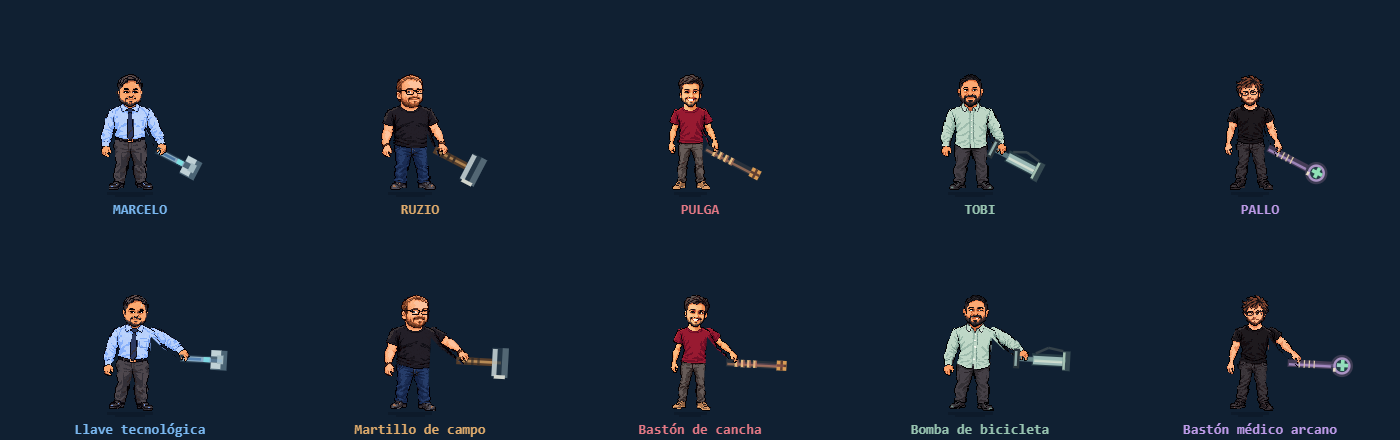
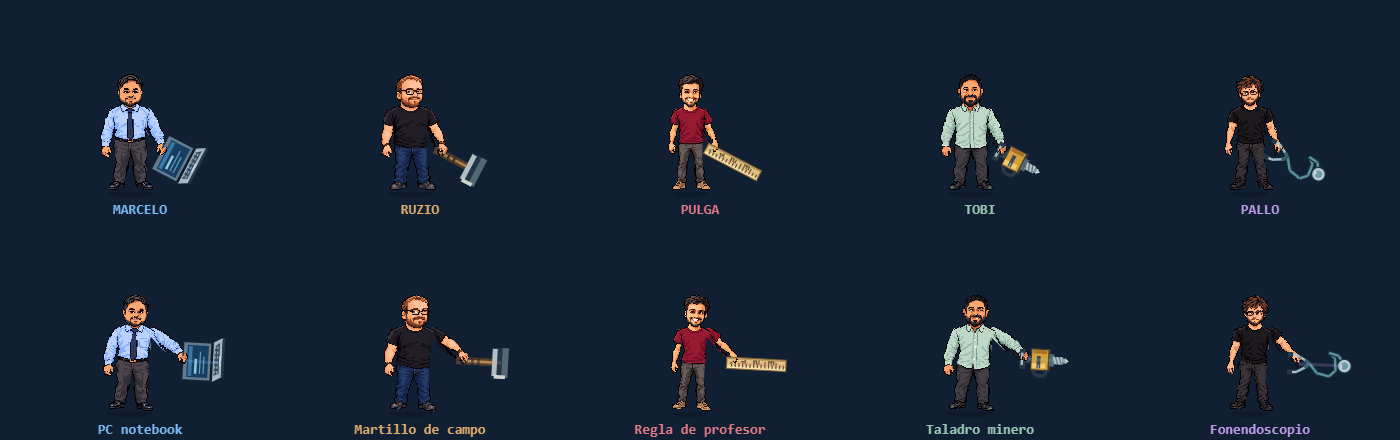
Customize melee weapons as notebook ruler mining drill and stethoscope

diff --git a/src/melee.js b/src/melee.js
@@ -2,14 +2,14 @@
  * de la herramienta y un solo impacto por objetivo en cada ejecución. */
 (() => {
   'use strict';
-  const M=window.Magdaleno,g=M.ctx,{F,line,circle}=M.draw;
+  const M=window.Magdaleno,g=M.ctx,{F,line,circle,poly}=M.draw;
   const duration=.30,rest={front:[.12,.20],psi:.77};
   M.weapons={
-    marcelo:{name:'Llave tecnológica',kind:'wrench',length:29,radius:6,color:'#7ab8f0',swing:.78},
+    marcelo:{name:'PC notebook',kind:'notebook',length:29,radius:13,color:'#7ab8f0',swing:.72},
     ruzio:{name:'Martillo de campo',kind:'field-hammer',length:30,radius:8,color:'#dfab6c',swing:.72},
-    pulga:{name:'Bastón de cancha',kind:'court-stick',length:38,radius:5,color:'#e57985',swing:.67},
-    tobi:{name:'Bomba de bicicleta',kind:'bike-pump',length:33,radius:7,color:'#97c3b0',swing:.77},
-    pallo:{name:'Bastón médico arcano',kind:'medical-staff',length:37,radius:7,color:'#be9be8',swing:.65}
+    pulga:{name:'Regla de profesor',kind:'teacher-ruler',length:38,radius:5,color:'#e57985',swing:.67},
+    tobi:{name:'Taladro minero',kind:'mining-drill',length:33,radius:8,color:'#97c3b0',swing:.77},
+    pallo:{name:'Fonendoscopio',kind:'stethoscope',length:37,radius:6,color:'#be9be8',swing:.65}
   };
   for(const [id,weapon]of Object.entries(M.weapons)){M.heroes[id].weapon=weapon.name;M.heroes[id].description=weapon.name+' para el ataque básico. '+M.heroes[id].description;}
   M.melee={duration,cooldown:.32,damage:10,activeStart:.07,activeEnd:.23};
@@ -29,7 +29,7 @@
     if(attacking){let i=1;while(i<keys.length-1&&t>keys[i][0])i++;const a=keys[i-1],b=keys[i],u=ease((t-a[0])/(b[0]-a[0]));front=[M.lerp(a[1],b[1],u),M.lerp(a[2],b[2],u)];psi=M.lerp(a[3],b[3],u);lean=M.lerp(a[4],b[4],u);}
     const phase=!attacking?'reposo':t<.07?'preparación':t<.18?'acción':'recuperación';
     return{id,variant:'melee',elapsed:attacking?t:-1,duration,phase,front,back:null,crouch:0,lean,jump:0,lift:0,scale:1,
-      tool:{kind:'melee',weapon:id,psi,show:1},attacking};
+      tool:{kind:'melee',weapon:id,psi,show:1,motion:attacking?t:0},attacking};
   };
 
   // La física reproduce las mismas transformaciones de hombro, codo y mano
@@ -74,27 +74,48 @@
     const w=M.weapons[tool.weapon],length=w.length;
     g.save();g.rotate(-tool.psi);g.scale(k,k);
     // Mango cerrado bajo la palma, con las mismas coordenadas que usa el golpe.
-    if(w.kind==='wrench'){
-      F(-3,-5,6,29,'#253b4e');F(-2,-3,4,24,'#8babc1');F(-1,0,2,12,'#4c76a2');
-      F(-8,20,16,13,'#4b6475');F(-7,20,5,8,'#c0d1d6');F(3,20,5,8,'#c0d1d6');F(-3,25,7,5,'#a4bbc3');
-      F(-2,14,4,5,'#7ddfe1');
+    if(w.kind==='notebook'){
+      // Pantalla, bisagra y teclado: se sostiene del borde superior.
+      F(-16,-2,32,25,'#162332');F(-15,-1,30,23,'#617b91');
+      F(-13,2,26,17,'#173d61');F(-12,3,24,3,'#3977a5');
+      F(-10,8,12,2,'#8ccee0');F(-10,12,18,1,'#5f9cba');F(-10,15,14,1,'#5f9cba');F(-1,-1,2,1,'#afc3cb');
+      line(-15,22,15,22,'#0c1722',2);
+      poly([[-16,23],[16,23],[20,30],[-12,30]],'#a4b7c2');
+      poly([[-11,24],[13,24],[16,28],[-9,28]],'#354b60');
+      for(let y=24;y<=27;y+=2)for(let x=-9;x<=11;x+=4)F(x,y,2,1,'#91a8b8');
+      F(-3,28,8,1,'#e0e5dc');line(-12,31,20,31,'#26394c',2);
     }else if(w.kind==='field-hammer'){
       F(-3,-6,6,32,'#563d2a');F(-1,-4,2,28,'#ac8150');
       for(let y=1;y<15;y+=5)F(-3,y,6,2,'#392f29');
       F(-12,23,24,13,'#233545');F(-11,23,22,4,'#b1bec2');F(-12,31,24,5,'#536774');F(-13,25,3,9,'#d1d5cd');
-    }else if(w.kind==='court-stick'){
-      F(-3,-9,6,49,'#27303b');F(-2,-8,2,46,'#8b6553');
-      for(let y=-2;y<16;y+=5){F(-3,y,6,2,'#e7bd80');F(-3,y+2,6,1,'#9e6552');}
-      F(-4,32,8,8,'#d99b54');F(-4,35,8,2,'#5f3e32');F(-1,32,2,8,'#5f3e32');
-    }else if(w.kind==='bike-pump'){
-      F(-5,5,10,27,'#263c45');F(-4,6,7,25,'#9ab9b6');F(-2,7,2,23,'#d2ded1');
-      F(-2,-8,4,14,'#5c7880');F(-8,-10,16,5,'#29343b');F(-6,-9,12,2,'#8eaaa7');
-      F(-8,30,16,6,'#354951');F(-7,30,14,2,'#a5c2b3');line(5,8,10,18,'#344149',2);line(10,18,8,30,'#344149',2);
-    }else{
-      F(-3,-9,6,45,'#453c56');F(-2,-8,2,43,'#9c83b7');
-      for(let y=0;y<13;y+=4)F(-3,y,6,1,'#ddcbaa');
-      circle(0,35,9,'#3c3b52');circle(0,35,7,'#ab93c4');circle(0,35,5,'#243e46');
-      F(-1,31,3,9,'#8fe1b7');F(-4,34,9,3,'#8fe1b7');F(-5,28,3,2,'#e9ddc8');
+    }else if(w.kind==='teacher-ruler'){
+      F(-5,-9,10,49,'#85673c');F(-4,-8,8,47,'#e1c583');F(-4,-8,2,47,'#fae5ae');F(3,-8,1,47,'#bc9759');
+      for(let y=-5;y<=37;y+=3)F(-3,y,y%9===4?5:3,1,'#665137');
+      // Dígitos de la escala dibujados con píxeles, sin tipografía suavizada.
+      F(1,3,1,4,'#665137');F(0,6,3,1,'#665137');
+      F(0,13,3,1,'#665137');F(2,14,1,1,'#665137');F(0,15,3,1,'#665137');F(0,16,1,1,'#665137');F(0,17,3,1,'#665137');
+      F(0,25,3,1,'#665137');F(2,26,1,3,'#665137');F(0,27,3,1,'#665137');F(0,29,3,1,'#665137');
+      circle(0,-5,1,'#9b7a48');
+    }else if(w.kind==='mining-drill'){
+      // Taladro neumático amarillo, empuñadura lateral y broca de acero.
+      F(-8,-5,16,5,'#253845');F(-5,-4,10,2,'#a4b6bc');F(-3,0,6,6,'#354754');
+      F(-9,4,18,16,'#443d2e');F(-8,5,16,13,'#d5a039');F(-7,5,4,11,'#f5ca69');F(5,6,3,11,'#a6712c');
+      F(-7,9,10,3,'#3d4850');F(-7,10,3,1,'#a7b1ab');
+      line(-9,6,-13,9,'#263944',3);line(-13,9,-13,16,'#263944',3);line(-13,16,-8,17,'#263944',3);
+      F(-5,19,10,4,'#516873');F(-3,22,6,8,'#b3c2c6');F(-2,30,4,3,'#8a9ea7');
+      const shift=tool.motion>0?Math.floor(tool.motion*60)%2:0;
+      for(let y=23+shift;y<31;y+=3)line(-3,y,3,y-2,'#526876',1);
+      poly([[-2,32],[2,32],[0,35]],'#c9d3d2');
+    }else if(w.kind==='stethoscope'){
+      // Olivas y arcos metálicos, tubo flexible y diafragma de auscultación.
+      line(-7,-7,-7,-2,'#b5c8ce',2);line(7,-7,7,-2,'#b5c8ce',2);
+      line(-7,-2,-3,5,'#9cbbc2',2);line(7,-2,3,5,'#9cbbc2',2);
+      F(-9,-9,4,4,'#243944');F(5,-9,4,4,'#243944');
+      line(-3,5,0,9,'#355f6b',3);line(3,5,0,9,'#355f6b',3);
+      const flex=tool.motion>0?Math.sin(tool.motion/duration*Math.PI*2)*4:0;
+      const tube=[[0,9],[-8+flex,15],[-10+flex,25],[-5+flex,30],[5+flex,29],[9+flex,24],[8,32],[0,37]];
+      for(let i=1;i<tube.length;i++){line(...tube[i-1],...tube[i],'#142d39',4);line(...tube[i-1],...tube[i],'#59909b',2);}
+      circle(0,37,6,'#1d3442');circle(0,37,5,'#b5cbd1');circle(0,37,3,'#6e99a7');F(-2,34,3,1,'#e1e9df');
     }
     mark('grip',0,0);mark('tip',0,length);mark('head',0,length);
     g.restore();

diff --git a/animaciones.html b/animaciones.html
@@ -10,14 +10,14 @@
   <style>
     body{display:block}.preview-shell{width:min(1280px,96vw);margin:32px auto 50px}.preview-head{display:flex;align-items:center;justify-content:space-between;gap:20px;margin-bottom:28px}.preview-head h1{font-size:clamp(26px,4vw,46px);margin-top:9px}.preview-head p{color:var(--muted);max-width:720px}.preview-head a{color:var(--amber);white-space:nowrap}.preview-controls{display:flex;align-items:center;gap:10px;flex-wrap:wrap;padding:17px;border:1px solid var(--line);background:var(--panel);margin-bottom:24px}.preview-controls button{border:1px solid #3b5067;background:#192d42;color:#c9d4df;padding:10px 15px;border-radius:3px}.preview-controls button[aria-pressed=true]{color:#171a1e;border-color:var(--amber);background:var(--amber)}.preview-controls label{display:flex;align-items:center;gap:8px;color:var(--muted);font-size:12px;margin-left:auto}.preview-controls select{background:#17283c;color:#f1dbb5;border:1px solid #496178;border-radius:3px;padding:8px}.preview-grid{display:grid;grid-template-columns:repeat(5,1fr);gap:14px}.preview-person{min-width:0;border:1px solid var(--line);background:linear-gradient(#172b40,#0d1b2b);padding:12px 8px 16px;text-align:center;border-radius:4px}.preview-person canvas{display:block;width:100%;height:auto;image-rendering:pixelated}.preview-person h2{margin:0;font-size:15px;letter-spacing:1px}.preview-person p{margin:6px 0 0;color:var(--muted);font-size:11px}.preview-note{color:var(--muted);line-height:1.7;margin-top:24px;max-width:850px;font-size:13px}#preview-status{color:var(--teal);font-size:12px;margin:14px 0}#game{display:none}.preview-pause{margin-left:0!important}@media(max-width:850px){.preview-grid{grid-template-columns:repeat(3,1fr)}.preview-head{align-items:flex-start}.preview-controls label{margin-left:0}}@media(max-width:520px){.preview-grid{grid-template-columns:repeat(2,1fr)}.preview-head{display:block}.preview-controls button{padding:8px 11px}}
   </style>
-  <script defer src="src/data.js?v=0.6.0"></script>
-  <script defer src="assets/bounds.js?v=0.6.0"></script>
-  <script defer src="src/core.js?v=0.6.0"></script>
-  <script defer src="src/render.js?v=0.6.0"></script>
-  <script defer src="src/visuals.js?v=0.6.0"></script>
-  <script defer src="src/powers.js?v=0.6.0"></script>
-  <script defer src="src/melee.js?v=0.6.0"></script>
-  <script defer src="src/animation-preview.js?v=0.6.0"></script>
+  <script defer src="src/data.js?v=0.6.1"></script>
+  <script defer src="assets/bounds.js?v=0.6.1"></script>
+  <script defer src="src/core.js?v=0.6.1"></script>
+  <script defer src="src/render.js?v=0.6.1"></script>
+  <script defer src="src/visuals.js?v=0.6.1"></script>
+  <script defer src="src/powers.js?v=0.6.1"></script>
+  <script defer src="src/melee.js?v=0.6.1"></script>
+  <script defer src="src/animation-preview.js?v=0.6.1"></script>
 </head>
 <body>
 <main class="preview-shell">

diff --git a/index.html b/index.html
@@ -12,17 +12,17 @@
   <link rel="apple-touch-icon" href="assets/icon-192.png">
   <meta name="apple-mobile-web-app-capable" content="yes">
   <meta name="apple-mobile-web-app-status-bar-style" content="black-translucent">
-  <script defer src="src/data.js?v=0.6.0"></script>
-  <script defer src="assets/bounds.js?v=0.6.0"></script>
-  <script defer src="src/core.js?v=0.6.0"></script>
-  <script defer src="src/render.js?v=0.6.0"></script>
-  <script defer src="src/visuals.js?v=0.6.0"></script>
-  <script defer src="src/powers.js?v=0.6.0"></script>
-  <script defer src="src/melee.js?v=0.6.0"></script>
-  <script defer src="src/game.js?v=0.6.0"></script>
-  <script defer src="src/chapter.js?v=0.6.0"></script>
-  <script defer src="src/soundtrack.js?v=0.6.0"></script>
-  <script defer src="src/mobile.js?v=0.6.0"></script>
+  <script defer src="src/data.js?v=0.6.1"></script>
+  <script defer src="assets/bounds.js?v=0.6.1"></script>
+  <script defer src="src/core.js?v=0.6.1"></script>
+  <script defer src="src/render.js?v=0.6.1"></script>
+  <script defer src="src/visuals.js?v=0.6.1"></script>
+  <script defer src="src/powers.js?v=0.6.1"></script>
+  <script defer src="src/melee.js?v=0.6.1"></script>
+  <script defer src="src/game.js?v=0.6.1"></script>
+  <script defer src="src/chapter.js?v=0.6.1"></script>
+  <script defer src="src/soundtrack.js?v=0.6.1"></script>
+  <script defer src="src/mobile.js?v=0.6.1"></script>
 </head>
 <body>
 <main class="shell">

diff --git a/sw.js b/sw.js
@@ -1,5 +1,5 @@
 /* Solo recursos del juego. Los vídeos del tráiler no se precargan. */
-const CACHE='magdaleno-mobile-0.6.0';
+const CACHE='magdaleno-mobile-0.6.1';
 const FILES=['./','./index.html','./styles.css','./mobile.css','./manifest.webmanifest','./src/data.js','./assets/bounds.js','./src/core.js','./src/render.js','./src/visuals.js','./src/powers.js','./src/melee.js','./src/game.js','./src/chapter.js','./src/soundtrack.js','./src/mobile.js','./assets/marcelo.png','./assets/ruzio.png','./assets/pulga.png','./assets/tobi.png','./assets/pallo.png','./assets/carabinero.png','./assets/matahombres.png','./assets/icon-192.png','./assets/icon-512.png','./movil.html'];
 self.addEventListener('install',event=>{event.waitUntil(caches.open(CACHE).then(cache=>cache.addAll(FILES.map(url=>new Request(url,{cache:'reload'})))).then(()=>self.skipWaiting()));});
 self.addEventListener('activate',event=>{event.waitUntil(caches.keys().then(keys=>Promise.all(keys.filter(key=>key.startsWith('magdaleno-mobile-')&&key!==CACHE).map(key=>caches.delete(key)))).then(()=>self.clients.claim()));});

diff --git a/ARMAS.md b/ARMAS.md
@@ -1,14 +1,14 @@
 # Armas de cuerpo a cuerpo
 
-Versión 0.6. Las armas se usan con **Z** o con el botón táctil **ARMA**. Mantener el botón repite el ataque. Cada arma permanece en la mano al caminar y saltar.
+Versión 0.6.1. Las armas se usan con **Z** o con el botón táctil **ARMA**. Mantener el botón repite el ataque. Cada arma permanece en la mano al caminar y saltar.
 
 | Amigo | Arma | Diseño |
 |---|---|---|
-| Marcelo | Llave tecnológica | Llave metálica con mango azul y un indicador luminoso. |
+| Marcelo | PC notebook | Notebook abierto con pantalla azul, bisagra y teclado, sujeto del borde. |
 | Ruzio | Martillo de campo | Mango de madera y cabeza de acero; es más corto que el martillo de su definitiva. |
-| Pulga | Bastón de cancha | Bastón de entrenamiento con agarre envuelto y extremo naranja inspirado en el balón. |
-| Tobi | Bomba de bicicleta | Bomba metálica con manilla y manguera, usada como porra. |
-| Pallo | Bastón médico arcano | Bastón violeta con emblema médico verde; el golpe básico es físico. |
+| Pulga | Regla de profesor | Regla de madera clara con graduaciones y números. |
+| Tobi | Taladro minero | Taladro neumático amarillo con empuñadura y broca de acero. |
+| Pallo | Fonendoscopio | Olivas, arcos metálicos, tubo flexible y diafragma; se balancea como arma de golpe. |
 
 Todos los ataques básicos mantienen **10 de daño**, no gastan energía y conservan un tiempo de ejecución de 0,30 s con una separación mínima de 0,32 s entre ataques. Las definitivas conservan sus efectos propios y su costo de 100 de energía. El golpe básico de Pallo no cura.
 
@@ -19,6 +19,8 @@ La longitud y el grosor de las herramientas varían. Su alcance corresponde al c
 [Ver las armas en movimiento](animaciones.html?accion=arma). El visor permite pausar, avanzar cuadro a cuadro y cambiar de sentido. El personaje usa su arma básica en reposo, marcha y salto; al seleccionar «Definitiva» muestra la secuencia de su poder.
 
 ![Las cinco armas en reposo y durante el ataque](assets/armas-basicas.png)
+
+Los dibujos siguen definidos en `src/melee.js`. También se exportan PNG transparentes en `assets/armas/`: [Marcelo](assets/armas/marcelo.png), [Ruzio](assets/armas/ruzio.png), [Pulga](assets/armas/pulga.png), [Tobi](assets/armas/tobi.png) y [Pallo](assets/armas/pallo.png). Se generan desde el mismo dibujo que usa el juego con `node tools/export-weapons.cjs`.
 
 ## Verificación
 

diff --git a/README.md b/README.md
@@ -1,10 +1,12 @@
 # La Leyenda del Magdaleno
 
-## Versión jugable 0.6 del capítulo 1
+## Versión jugable 0.6.1 del capítulo 1
 
 Una aventura de plataformas en pixel art: elige a uno de los cinco amigos, reúne al grupo y llega a la botillería escondida en la montaña para conseguir el Coñac Magdaleno.
 
 La versión 0.6 añade un arma cuerpo a cuerpo por amigo para el ataque básico. Se usa con Z o ARMA, sin costo de energía y con 10 de daño. [Ver las armas](animaciones.html?accion=arma) · [Descripción de cada arma](ARMAS.md).
+
+En la revisión 0.6.1, Marcelo usa un notebook, Pulga una regla de profesor, Tobi un taladro minero y Pallo un fonendoscopio. Los PNG transparentes se encuentran en `assets/armas/`.
 
 La versión 0.4 adapta los menús, diálogos y controles a celulares en vertical y horizontal. Incluye instalación opcional, recursos disponibles sin conexión y un tráiler de 30 segundos en dos formatos. La revisión 0.4.1 retira el desenlace del tráiler. La 0.5 corrige las definitivas: cada poder tiene preparación, acción, impacto y recuperación; las herramientas siguen la mano y el daño ocurre en el contacto o el aterrizaje. El tráiler se capturó de nuevo con los poderes corregidos. [Ver tráiler sin desenlace](trailer.html?v=0.5.0) · [Análisis de animaciones](ANALISIS_ANIMACIONES.md) · [Jugar en celular](movil.html) · [Publicar](PUBLICAR.md).
 

diff --git a/CAMBIOS.md b/CAMBIOS.md
@@ -1,5 +1,14 @@
 # Cambios de versión
 
+## 0.6.1: armas personalizadas
+
+- Marcelo usa un PC notebook con pantalla y teclado.
+- Pulga usa una regla de profesor con graduaciones.
+- Tobi usa un taladro minero con broca de acero.
+- Pallo usa un fonendoscopio con tubo flexible.
+- PNG transparentes individuales en `assets/armas/`, exportados desde los dibujos del juego.
+- Se revisaron el agarre y el barrido del daño en ambos sentidos.
+
 ## 0.6: armas para el ataque básico
 
 - Llave tecnológica de Marcelo, martillo de campo de Ruzio, bastón de cancha de Pulga, bomba de bicicleta de Tobi y bastón médico arcano de Pallo.
